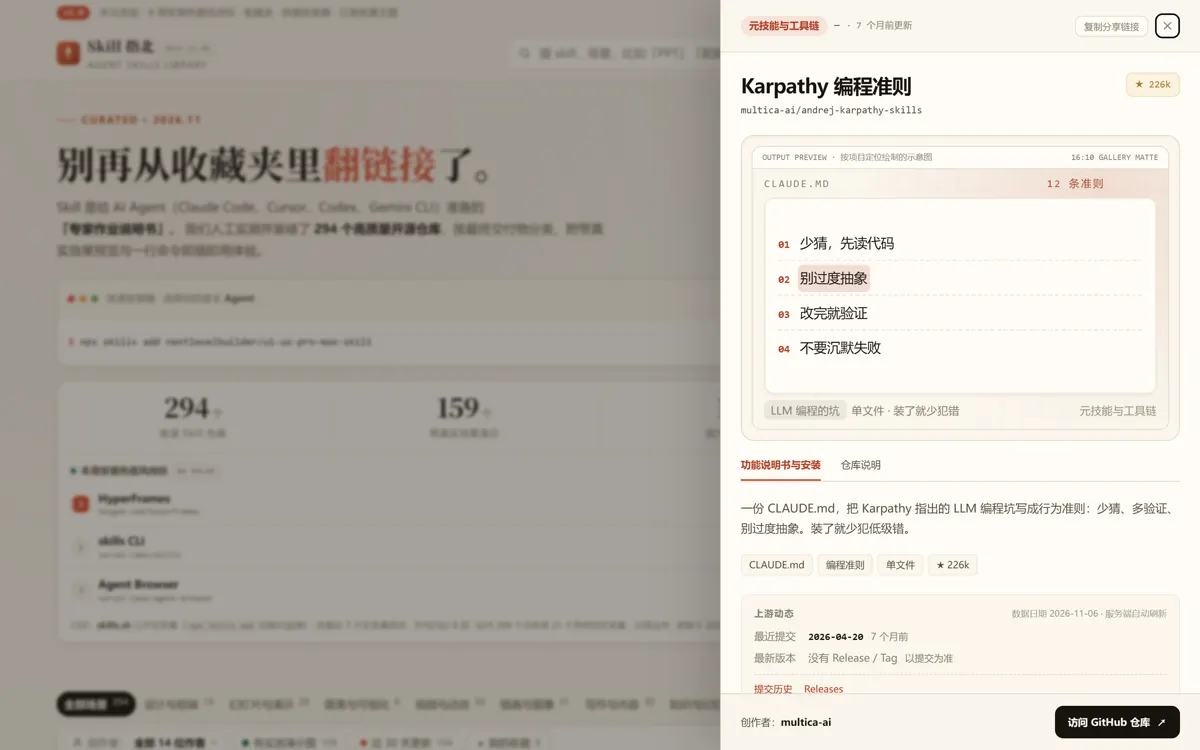
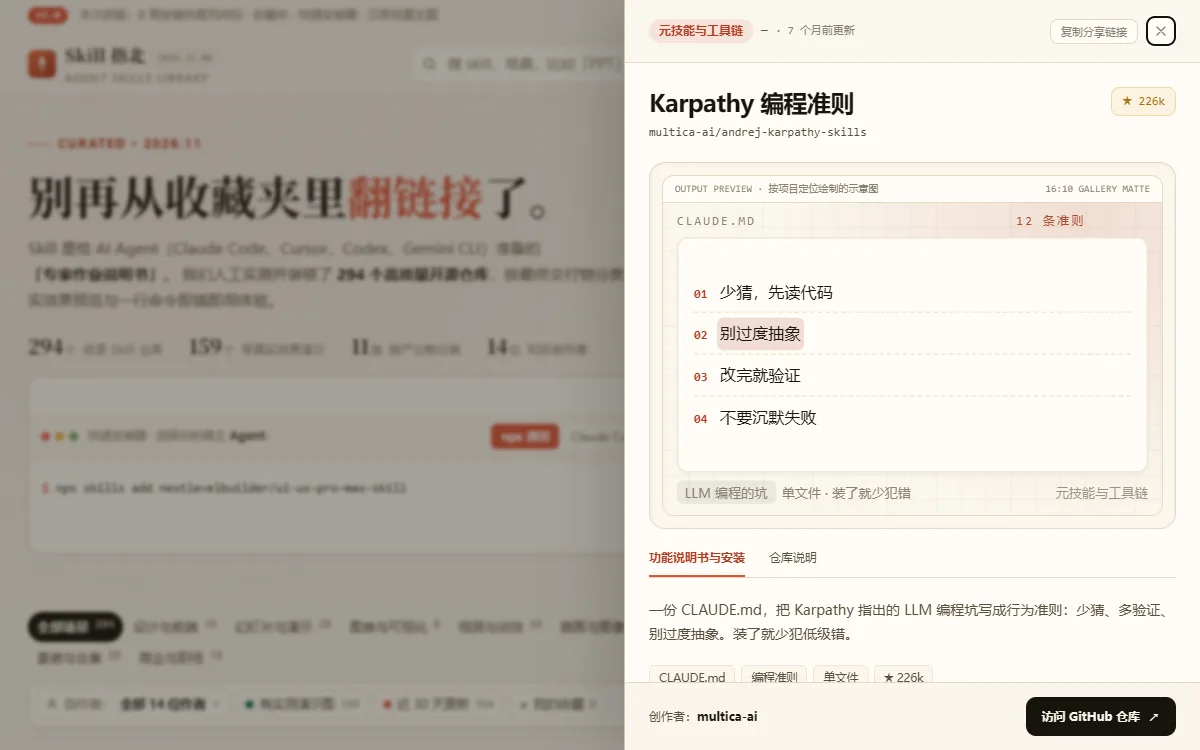
docs(readme): 同步首屏改版后的截图与功能表文案
- hero-home.webp / drawer.webp 重截为新的紧凑首屏：统计一行小字、安装器与风向标 2:1 左右分区
- 功能表「安装热度风向标」去掉已下线的迷你趋势线描述，改为 Top3 迷你榜 + 可展开完整榜单
- gallery / leaderboard / dark 三张只截内容区，界面未变，保持原样

diff --git a/README.md b/README.md
@@ -36,7 +36,7 @@
 | 搜索 | 搜名称、仓库、说明、标签；`/` 直接聚焦 |
 | 详情抽屉 | 三段式侧滑面板：效果预览、功能说明书、SKILL.md / README 源码透视、安装命令、宿主兼容、同类替代 |
 | 快速安装器 | 切换 npx / Claude Code / Cursor / Codex，命令实时变化，一键复制 |
-| 安装热度风向标 | 每周安装量 Top 榜 + 迷你趋势线，数据取自 `skills.sh` 公开快照 |
+| 安装热度风向标 | 首屏 Top3 迷你榜，可展开完整榜单；数据取自 `skills.sh` 公开周安装量快照 |
 | 收藏夹 | 存在浏览器 `localStorage`，不登录、不上传 |
 | 日夜纸墨主题 | `D` 一键切换，浅色暖纸 / 深色墨色两套同名设计变量 |
 | 分享深链 | `?open=<id>` 可直接打开某个 skill 的详情，`?view=list` 直接进榜单 |
